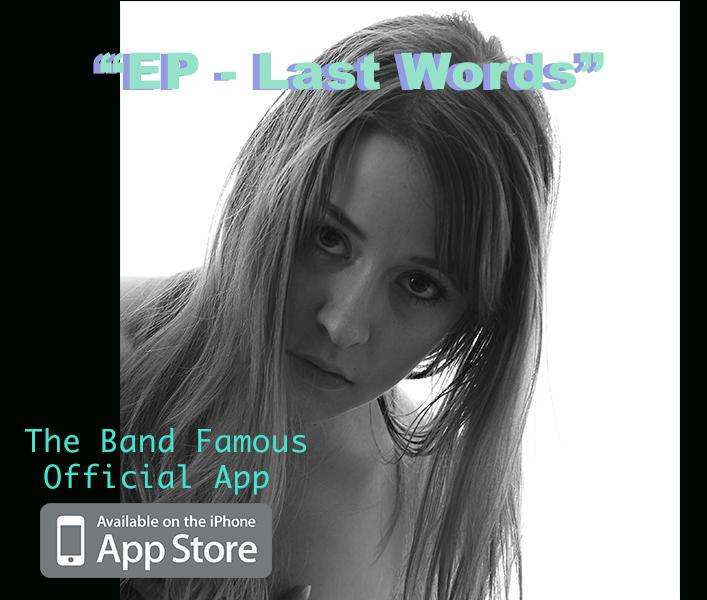
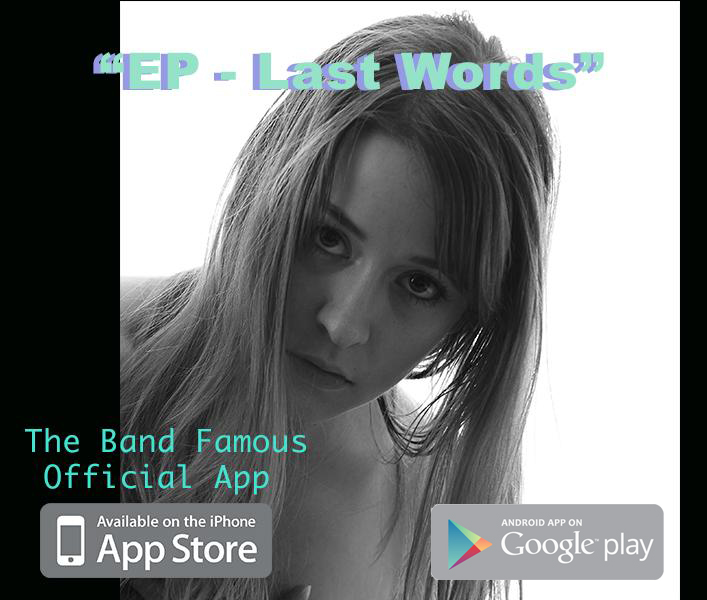
Woohoo TBF on Android and iPhones now

Changed region(s): [[0.5912, 0.84, 0.9646, 0.99], [0.3112, 0.72, 0.3734, 0.75], [0.3423, 0.78, 0.3734, 0.81]]

diff --git a/index.html b/index.html
@@ -43,6 +43,13 @@ body{
 					        </div>
 					     </div>
 					 </li>
+					 <li>
+				    	<div class="">
+					        <div>
+					            <a href="https://play.google.com/store/apps/details?id=com.bandfamous.famous" target="_blank" title="Have an Android phone or tablet? Download our Android app for free!"><img src="img/googleplay.png" style="width: 310px; height: auto; margin-top:-5px; vertical-align: center; margin-left: 5px;" alt="Download The Band Famous on Google Play today!"/></a>
+					        </div>
+					     </div>
+					 </li>
 					<li>
 						<form method="link" action="http://www.bandfamous.com/mobile">
 					        <input type="submit" value="On a Phone" class="punch">
@@ -52,7 +59,7 @@ body{
 				</ul>
 			</div>
 			<div style="float: right;">
-				<a href="http://itunes.apple.com/us/app/the-band-famous/id879979539?mt=8" target="_blank" title="Have an iPhone, iPad, or iPod Touch? Download our iOS app for free!"><img src="img/ep.jpg" alt="Get TBF's debut EP Last Words for free in the TBF app!" style=" width: 75%; margin-left: 30px; margin-right: 200px; margin-top: 15px;"/></a>
+				<img src="img/ep.jpg" alt="Get TBF's debut EP Last Words for free in the TBF app!" style=" width: 75%; margin-left: 30px; margin-right: 200px; margin-top: 15px;"/>
 			</div>
 	
 
